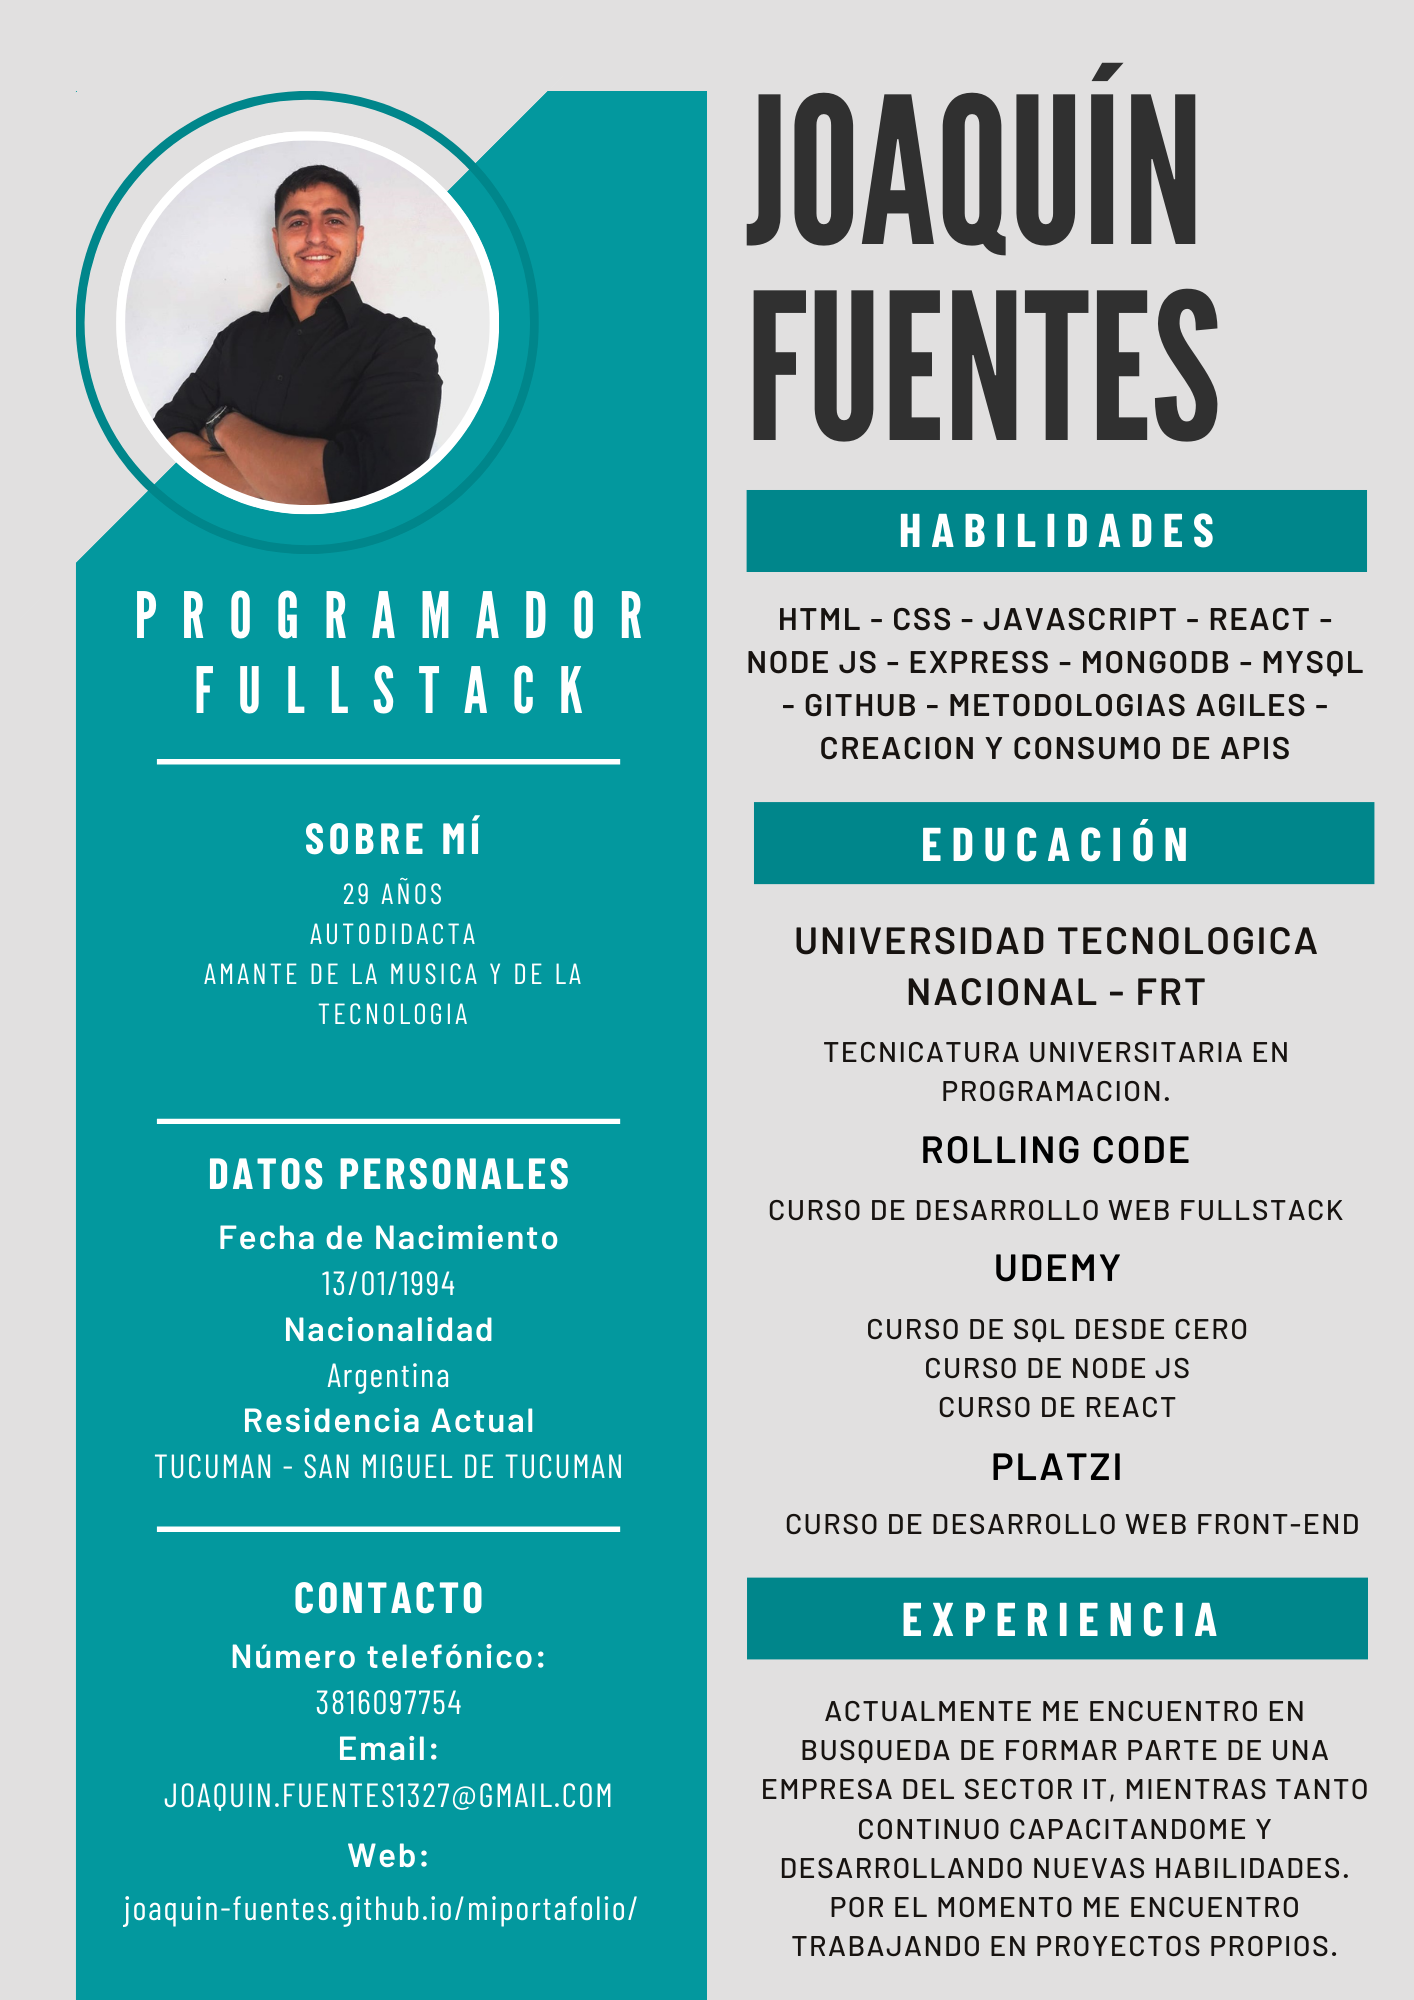
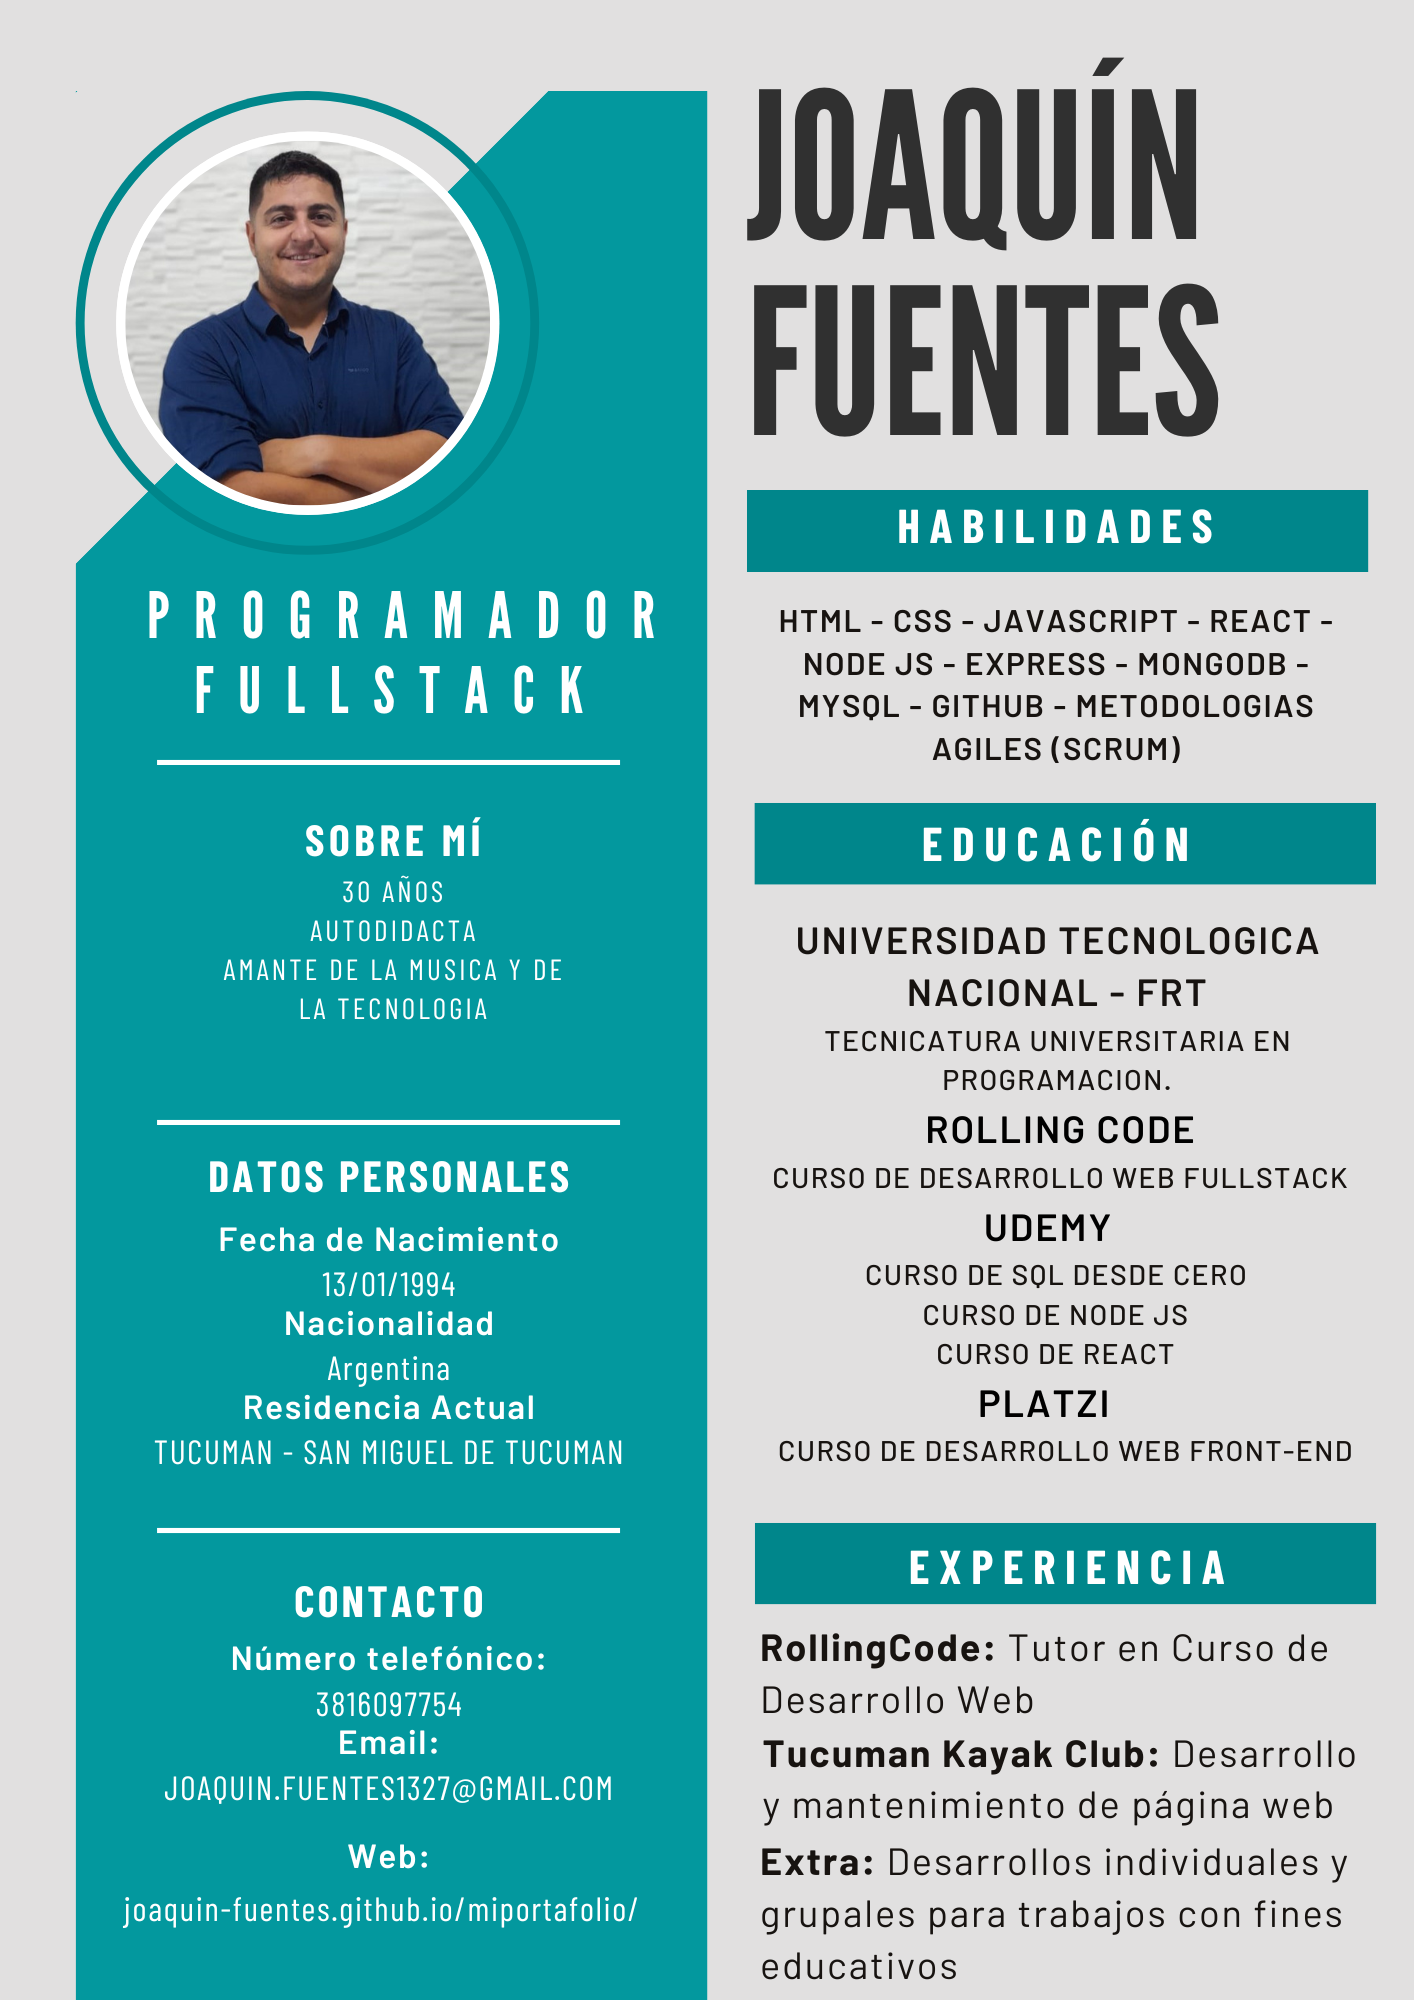
cambio de diseño

diff --git a/src/components/views/Educacion.jsx b/src/components/views/Educacion.jsx
@@ -4,34 +4,34 @@ import { Container, Button, Modal, Carousel } from 'react-bootstrap';
 import CarouselCertificados from "./CarouselCertificados"
 
 
- function MyVerticallyCenteredModal(props) {
-     return (
-         <Modal
-             {...props}
-             size="lg"
-             aria-labelledby="contained-modal-title-vcenter"
-             centered
-         >
-             <Modal.Header closeButton>
-                 <Modal.Title id="contained-modal-title-vcenter">
-                     CERTIFICADOS 
-                 </Modal.Title>
-             </Modal.Header>
-             <Modal.Body>
+function MyVerticallyCenteredModal(props) {
+    return (
+        <Modal
+            {...props}
+            size="lg"
+            aria-labelledby="contained-modal-title-vcenter"
+            centered
+        >
+            <Modal.Header closeButton>
+                <Modal.Title id="contained-modal-title-vcenter">
+                    CERTIFICADOS
+                </Modal.Title>
+            </Modal.Header>
+            <Modal.Body>
                 <CarouselCertificados></CarouselCertificados>
-             </Modal.Body>
-             <Modal.Footer>
-                 <Button onClick={props.onHide}>Volver</Button>
-             </Modal.Footer>
-         </Modal>
-     );
- }
+            </Modal.Body>
+            <Modal.Footer>
+                <Button onClick={props.onHide}>Volver</Button>
+            </Modal.Footer>
+        </Modal>
+    );
+}
 
 
 
 const Educacion = () => {
     const [modalShow, setModalShow] = React.useState(false);
-    
+
 
     return (
         <Container className='text-light text-center p-4' id="educacion" >

diff --git a/src/components/views/Trabajo.jsx b/src/components/views/Trabajo.jsx
@@ -5,9 +5,12 @@ const Trabajo = () => {
     return (
         <Container className='text-light p-4' id='experiencia'>
             <h3 className='text-center titulo mb-3'>Trabajo</h3>
-            <h6>Me encuentro en búsqueda de formar parte de una empresa del sector IT, mientras tanto continuo capacitándome y desarrollando nuevas habilidades.
-                Actualmente estoy cursando la carrera de Tecnincatura Superior en Programacion, estoy amplando mis conocimientos y creando nuevos proyectos.
-            </h6>
+            <h5 className='fw-bold text-center'>RollingCode</h5>
+            <h6 className='text-center mb-3'>Tutor en curso de Desarrollo Web</h6>
+            <h5 className='fw-bold text-center'>Tucumán Kayak Club</h5>
+            <h6 className='text-center mb-3'>Desarrollo y mantenimiento de página web</h6>
+            <h5 className='fw-bold text-center'>Extras</h5>
+            <h6 className='text-center mb-3'>Desarrollos individuales y grupales para trabajos con fines educativos</h6>
         </Container>
     );
 };

diff --git a/src/components/views/Portada.jsx b/src/components/views/Portada.jsx
@@ -6,10 +6,10 @@ const Portada = () => {
     return (
         <Container fluid="xs" id='home' >
             <Row className="portada m-0">
-                <Col xs={12} lg={6} className='contenedor-imagen  '>
+                <Col lg={6} className='contenedor-imagen  '>
                     <img src={imgPerfil} alt="Imagen de perfil de Joaquin Fuentes" className='w-75 rounded-circle img-portada' />
                 </Col>
-                <Col xs={12} lg={6} className='contenedor-textoPortada  '>
+                <Col lg={6} className='contenedor-textoPortada  '>
                     <article className='articleInfo'>
                         <h1 className='text-light fw-bold text-nombre'>Joaquín Fuentes</h1>
                         <h3 className='text-puesto'>Desarrollador Web Full Stack</h3>

diff --git a/src/components/views/SobreMi.jsx b/src/components/views/SobreMi.jsx
@@ -33,7 +33,7 @@ const SobreMi = () => {
         <Container className='text-light p-4' id='sobremi' >
             <h3 className='text-center titulo mb-3'>Sobre mí</h3>
             <h5>¿Quién soy?</h5>
-            <h6>Hola! Mi nombre es Joaquin Fuentes! Tengo 29 años. Me considero un joven apasionado de la tecnologica y la programacion. <br />
+            <h6>Hola! Mi nombre es Joaquin Fuentes! Tengo 30 años. Me considero un joven apasionado de la tecnologica y la programacion. <br />
                 Me gusta aprender nuevas tecnologías, solcionar problemas y adaptarme a nuevos conocimientos o lenguajes.</h6>
             <Button variant='warning' className='my-2' onClick={() => setModalShow(true)}> Ver CV </Button>
             <MyVerticallyCenteredModal

diff --git a/src/App.css b/src/App.css
@@ -22,24 +22,26 @@
   left: 0;
   right: 0;
   z-index: 100;
+  background-color: rgba(69, 69, 69, 0.195);
 }
 #home{
-  margin-top: 76px;
   height: 100%;
 }
 /* PORTADA */
 .portada {
-  background: linear-gradient(to right, #0201160c, #55590063), url(https://profile.es/wp-content/media/mejores-frameworks-de-java-en-2021-1024x478.jpg);
+  background: linear-gradient(to right, #0201160c, #55590063), url("./assets/fondop5.jpg");
   background-attachment: fixed;
   background-size: cover;
   background-repeat: no-repeat;
   background-position: center center;
   padding: 80px;
-  height: 90vh;
+  height: 100vh;
 }
 
 .img-portada {
   box-shadow: 2px 2px 2px black;
+  opacity: 0.92;
+  margin-top: 35px;
 }
 
 .contenedor-textoPortada {

diff --git a/src/components/views/Menu.jsx b/src/components/views/Menu.jsx
@@ -1,10 +1,10 @@
 import React from 'react';
 import { Container, Navbar, Nav } from "react-bootstrap"
-import logoOscuro from "../../assets/logoFavicon.png"
+import logoOscuro from "../../assets/logo1.png"
 
 const Menu = () => {
     return (
-        <Navbar expand="lg" className="bg-dark navBar">
+        <Navbar expand="lg" className="navBar">
             <Container>
                 <Navbar.Brand href="#home" className='text-light fw-bold'> 
                 <img src={logoOscuro} alt="Logo joaquin fuentes" className='logoMenu rounded me-1' /> ¡Bienvenido!</Navbar.Brand>

diff --git a/index.html b/index.html
@@ -2,7 +2,7 @@
 <html lang="en">
   <head>
     <meta charset="UTF-8" />
-    <link rel="icon" type="image/svg+xml" href="./src/assets/logoFavicon.png" />
+    <link rel="icon" type="image/svg+xml" href="./src/assets/logo1.png" />
     <meta name="viewport" content="width=device-width, initial-scale=1.0" />
     <title>Mi Portafolio</title>
   </head>
